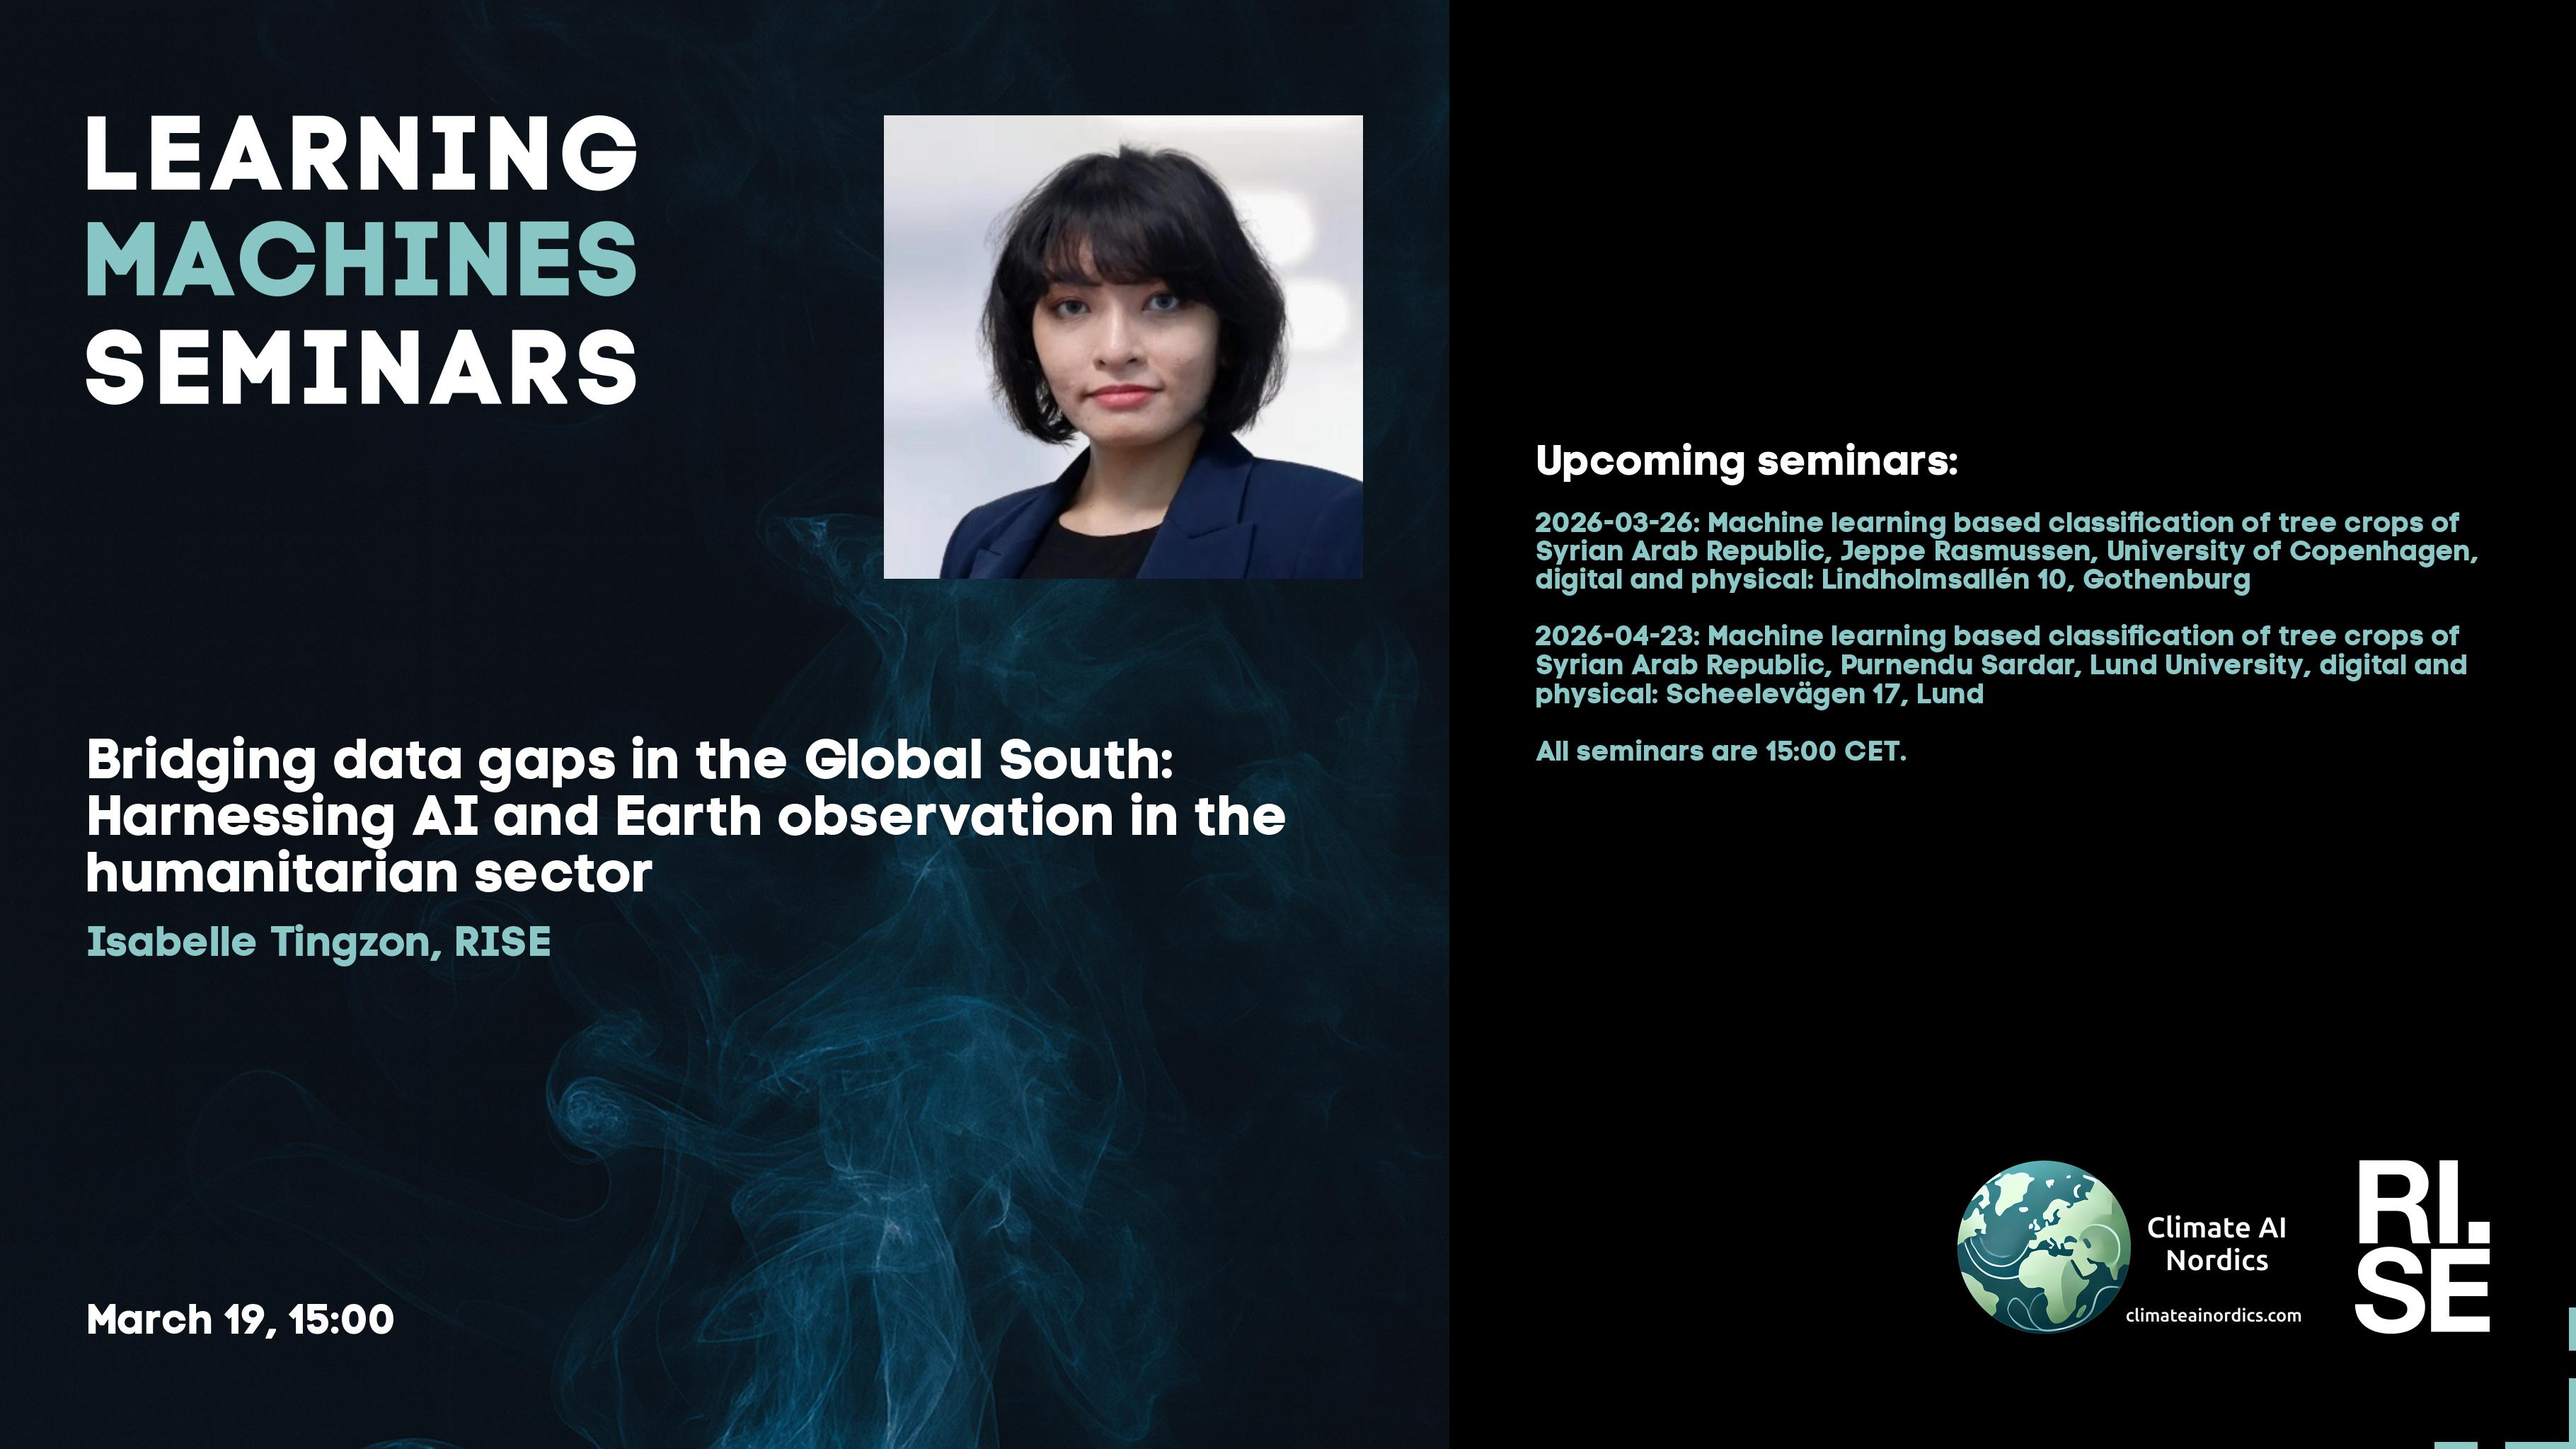
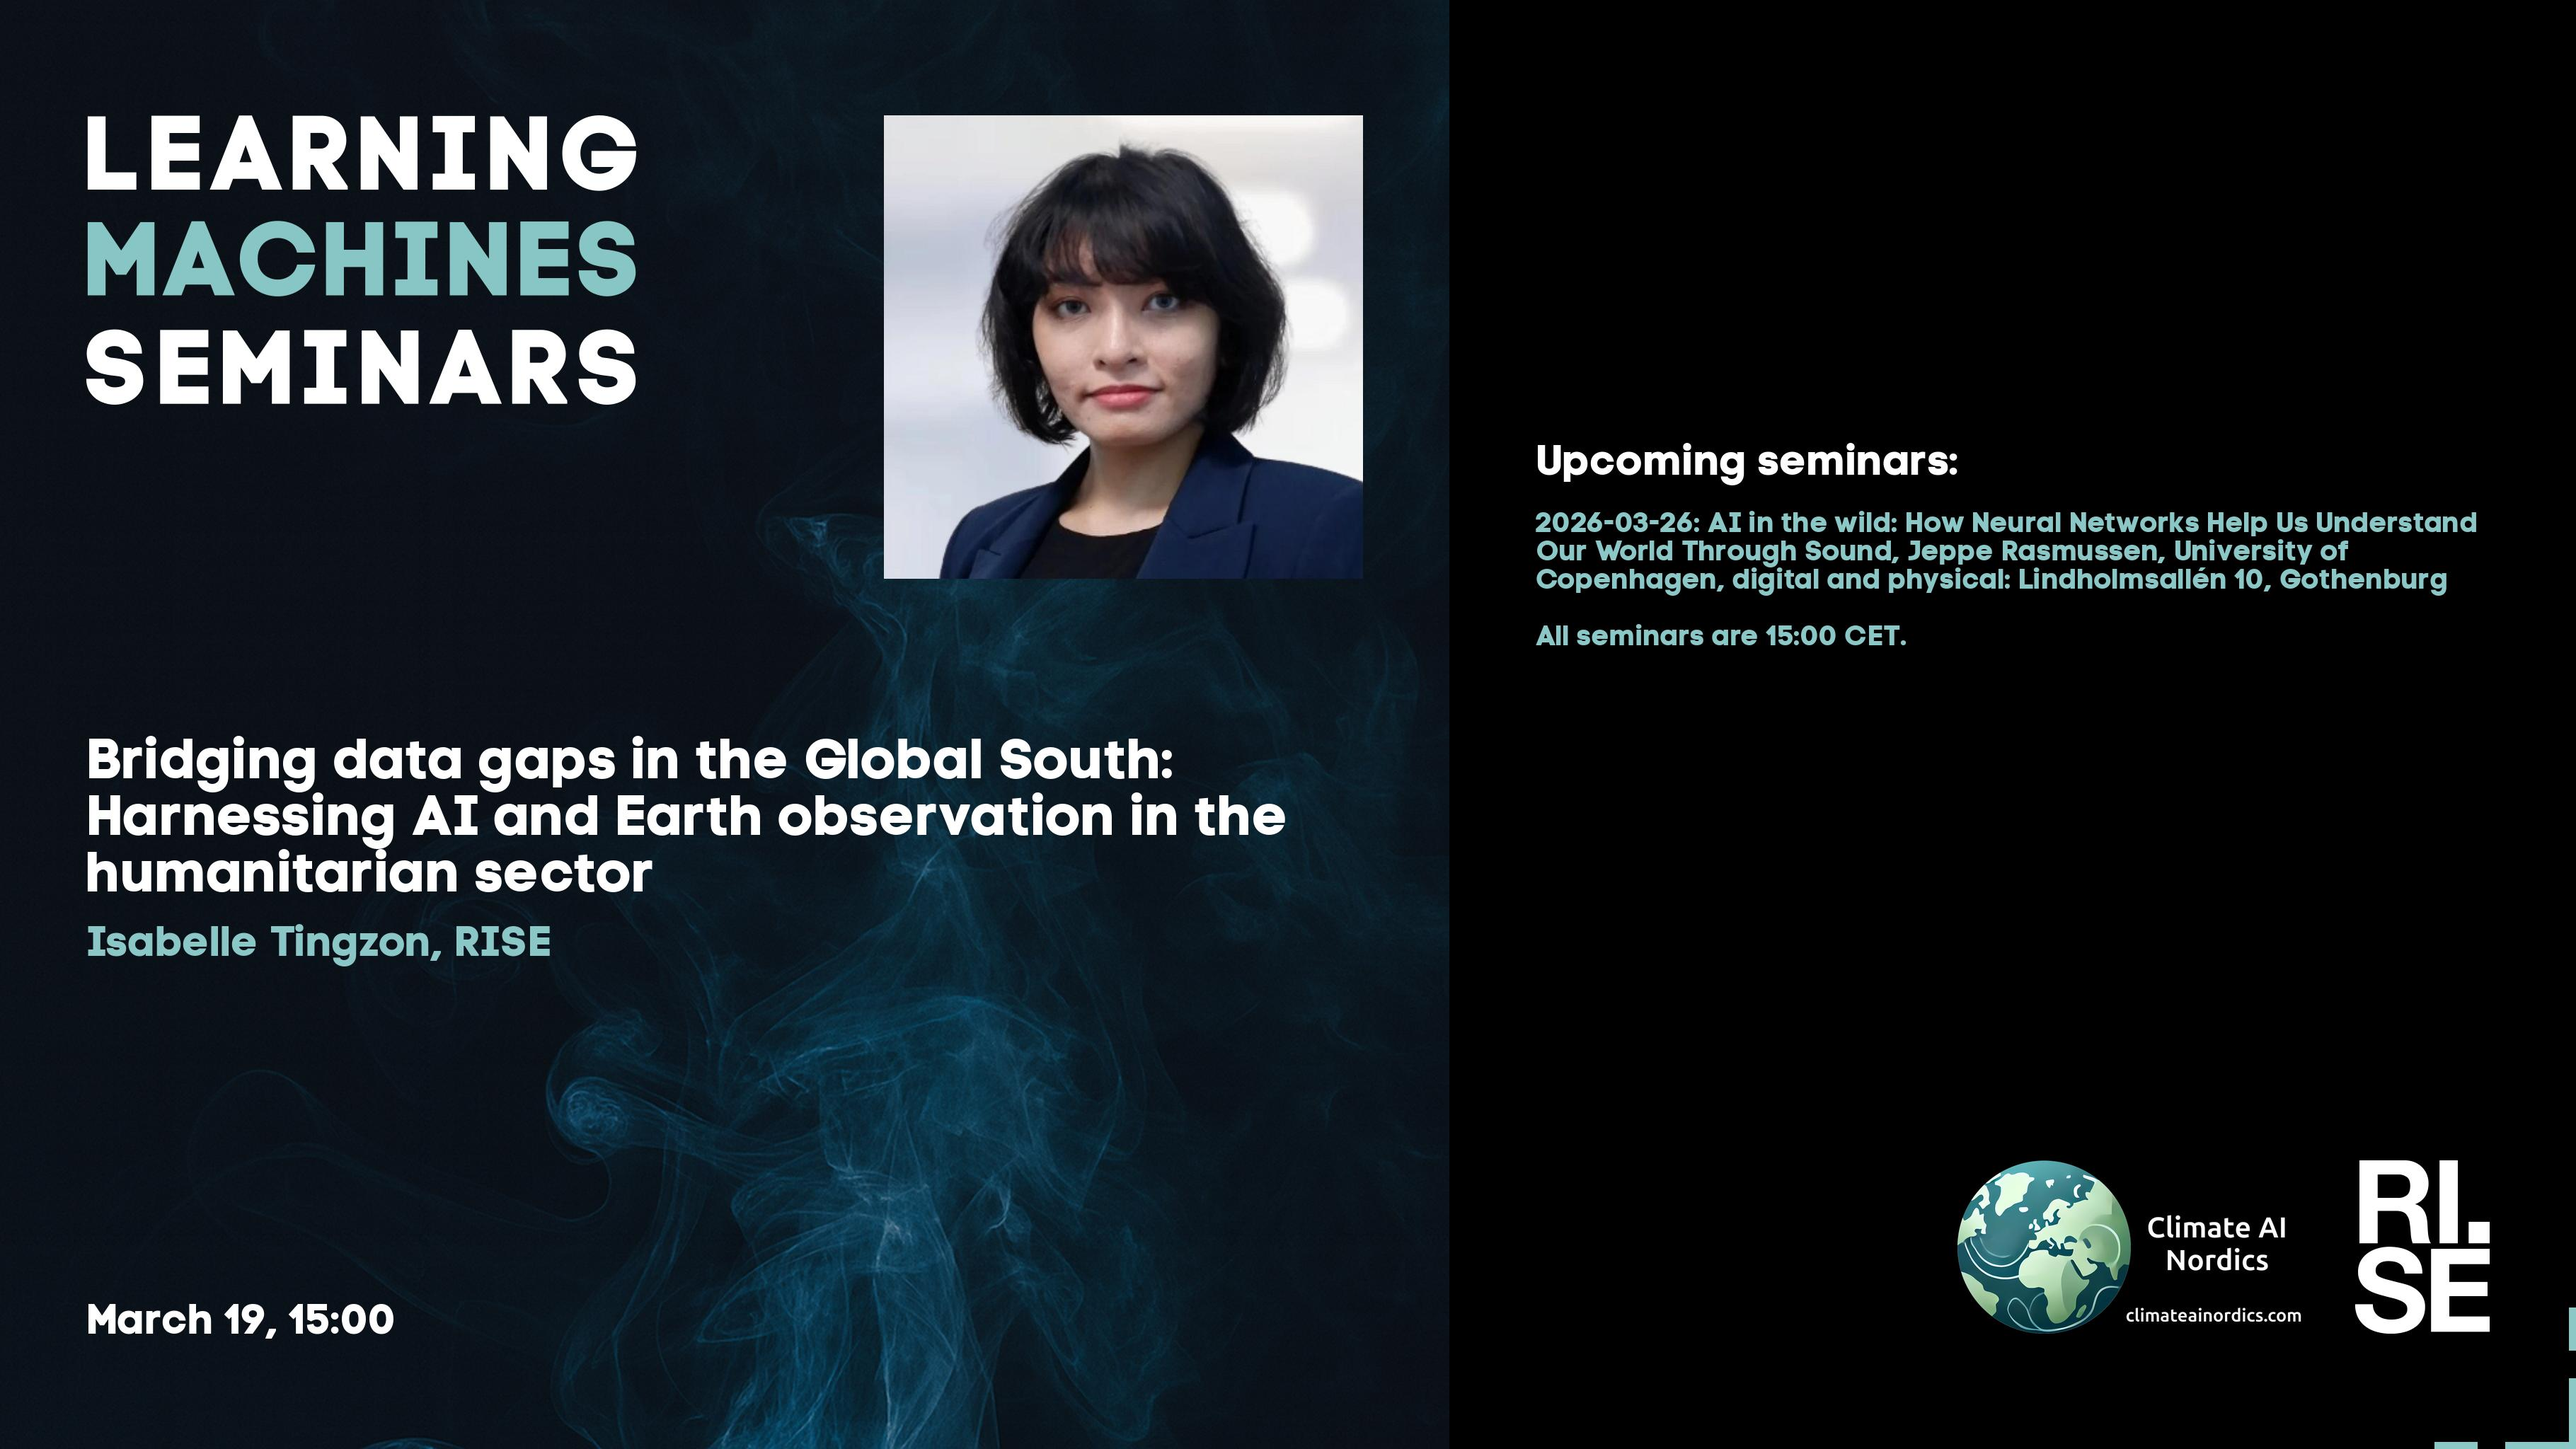
Updated plan on web site.

Changed region(s): [[0.5898, 0.3438, 0.9624, 0.5312]]

diff --git a/lm/2026.md b/lm/2026.md
@@ -17,7 +17,6 @@ table {border-collapse: collapse;}
 |  2026-03-26  |  [Jeppe Rasmussen, University of Copenhagen](2026-03-26.md)  |  [photo](2026-03-26-photo-jeppe-rasmussen.webp)  |  [social media bg ](2026-03-26-social-media-bg-jeppe-rasmussen.jpg) --- [social media photo ](2026-03-26-social-media-photo-jeppe-rasmussen.jpg) --- [social media 169 ](2026-03-26-social-media-169-jeppe-rasmussen.jpg)  |  [meeting backdrop ](2026-03-26-meeting-backdrop-jeppe-rasmussen.jpg)  |  [youtube thumbnail ](2026-03-26-youtube-thumbnail-jeppe-rasmussen.jpg)  |  STABP  |
 | <span style="color:red"> 2026-04-09 </span> | <span style="color:red"> Skärtorsdagen </span> | <span style="color:red">  </span> | <span style="color:red">  ---  ---  </span> | <span style="color:red">  </span> | <span style="color:red">  </span> | <span style="color:red"> CANCELLED </span> |
 |  2026-04-23  |  [Purnendu Sardar, Lund University](2026-04-23.md)  |    |  [social media bg ](2026-04-23-social-media-bg-purnendu-sardar.jpg) --- [social media photo ](2026-04-23-social-media-photo-purnendu-sardar.jpg) --- [social media 169 ](2026-04-23-social-media-169-purnendu-sardar.jpg)  |  [meeting backdrop ](2026-04-23-meeting-backdrop-purnendu-sardar.jpg)  |  [youtube thumbnail ](2026-04-23-youtube-thumbnail-purnendu-sardar.jpg)  |  STAB~~P~~  |
-| <span style="color:purple"> 2026-04-30 </span> | <span style="color:purple"> *Up for grabs!!!* </span> | <span style="color:purple">  </span> | <span style="color:purple">  ---  ---  </span> | <span style="color:purple">  </span> | <span style="color:purple">  </span> | <span style="color:purple"> ~~STABP~~ </span> |
 | <span style="color:grey"> 2026-05-14 </span> | <span style="color:grey"> Kelsey D. ? </span> | <span style="color:grey">  </span> | <span style="color:grey">  ---  ---  </span> | <span style="color:grey">  </span> | <span style="color:grey">  </span> | <span style="color:grey"> S~~TABP~~ </span> |
 | <span style="color:grey"> 2026-05-28 </span> | <span style="color:grey"> Kelsey D. ? </span> | <span style="color:grey">  </span> | <span style="color:grey">  ---  ---  </span> | <span style="color:grey">  </span> | <span style="color:grey">  </span> | <span style="color:grey"> S~~TABP~~ </span> |
 | <span style="color:purple"> 2026-06-11 </span> | <span style="color:purple"> *Up for grabs!!!* </span> | <span style="color:purple">  </span> | <span style="color:purple">  ---  ---  </span> | <span style="color:purple">  </span> | <span style="color:purple">  </span> | <span style="color:purple"> ~~STABP~~ </span> |

diff --git a/lm/index.md b/lm/index.md
@@ -17,7 +17,6 @@ table {border-collapse: collapse;}
 |  2026-03-26  |  [Jeppe Rasmussen, University of Copenhagen](2026-03-26.md)  |  [photo](2026-03-26-photo-jeppe-rasmussen.webp)  |  [social media bg ](2026-03-26-social-media-bg-jeppe-rasmussen.jpg) --- [social media photo ](2026-03-26-social-media-photo-jeppe-rasmussen.jpg) --- [social media 169 ](2026-03-26-social-media-169-jeppe-rasmussen.jpg)  |  [meeting backdrop ](2026-03-26-meeting-backdrop-jeppe-rasmussen.jpg)  |  [youtube thumbnail ](2026-03-26-youtube-thumbnail-jeppe-rasmussen.jpg)  |  STABP  |
 | <span style="color:red"> 2026-04-09 </span> | <span style="color:red"> Skärtorsdagen </span> | <span style="color:red">  </span> | <span style="color:red">  ---  ---  </span> | <span style="color:red">  </span> | <span style="color:red">  </span> | <span style="color:red"> CANCELLED </span> |
 |  2026-04-23  |  [Purnendu Sardar, Lund University](2026-04-23.md)  |    |  [social media bg ](2026-04-23-social-media-bg-purnendu-sardar.jpg) --- [social media photo ](2026-04-23-social-media-photo-purnendu-sardar.jpg) --- [social media 169 ](2026-04-23-social-media-169-purnendu-sardar.jpg)  |  [meeting backdrop ](2026-04-23-meeting-backdrop-purnendu-sardar.jpg)  |  [youtube thumbnail ](2026-04-23-youtube-thumbnail-purnendu-sardar.jpg)  |  STAB~~P~~  |
-| <span style="color:purple"> 2026-04-30 </span> | <span style="color:purple"> *Up for grabs!!!* </span> | <span style="color:purple">  </span> | <span style="color:purple">  ---  ---  </span> | <span style="color:purple">  </span> | <span style="color:purple">  </span> | <span style="color:purple"> ~~STABP~~ </span> |
 | <span style="color:grey"> 2026-05-14 </span> | <span style="color:grey"> Kelsey D. ? </span> | <span style="color:grey">  </span> | <span style="color:grey">  ---  ---  </span> | <span style="color:grey">  </span> | <span style="color:grey">  </span> | <span style="color:grey"> S~~TABP~~ </span> |
 | <span style="color:grey"> 2026-05-28 </span> | <span style="color:grey"> Kelsey D. ? </span> | <span style="color:grey">  </span> | <span style="color:grey">  ---  ---  </span> | <span style="color:grey">  </span> | <span style="color:grey">  </span> | <span style="color:grey"> S~~TABP~~ </span> |
 | <span style="color:purple"> 2026-06-11 </span> | <span style="color:purple"> *Up for grabs!!!* </span> | <span style="color:purple">  </span> | <span style="color:purple">  ---  ---  </span> | <span style="color:purple">  </span> | <span style="color:purple">  </span> | <span style="color:purple"> ~~STABP~~ </span> |

diff --git a/lm/2026-02-19.md b/lm/2026-02-19.md
@@ -22,9 +22,8 @@ Welcome to this week's Learning Machines seminar.
 
 **Upcoming seminars:**
 
-* 2026-03-19: *Machine learning based classification of tree crops of Syrian Arab Republic*, Isabelle Tingzon, RISE, **digital and physical: Scheelevägen 17, Lund"Scheelevägen 17, Lund**
-* 2026-03-26: *Machine learning based classification of tree crops of Syrian Arab Republic*, Jeppe Rasmussen, University of Copenhagen, **digital and physical: Lindholmsallén 10, Gothenburg**
-* 2026-04-23: *Machine learning based classification of tree crops of Syrian Arab Republic*, Purnendu Sardar, Lund University, **digital and physical: Scheelevägen 17, Lund**
+* 2026-03-19: *AI in the wild: How Neural Networks Help Us Understand Our World Through Sound*, Isabelle Tingzon, RISE, **digital and physical: Scheelevägen 17, Lund"Scheelevägen 17, Lund**
+* 2026-03-26: *AI in the wild: How Neural Networks Help Us Understand Our World Through Sound*, Jeppe Rasmussen, University of Copenhagen, **digital and physical: Lindholmsallén 10, Gothenburg**
 * All seminars are 15:00 CET.
 
 More information and coming seminars: [https://ri.se/lm-sem](https://ri.se/lm-sem)

diff --git a/lm/2026-03-26.md b/lm/2026-03-26.md
@@ -38,7 +38,6 @@ This seminar will have an in-person presence at RISE office in Gothenburg locate
 
 **Upcoming seminars:**
 
-* 2026-04-23: *Machine learning based classification of tree crops of Syrian Arab Republic*, Purnendu Sardar, Lund University, **digital and physical: Scheelevägen 17, Lund**
 * All seminars are 15:00 CET.
 
 More information and coming seminars: [https://ri.se/lm-sem](https://ri.se/lm-sem)
